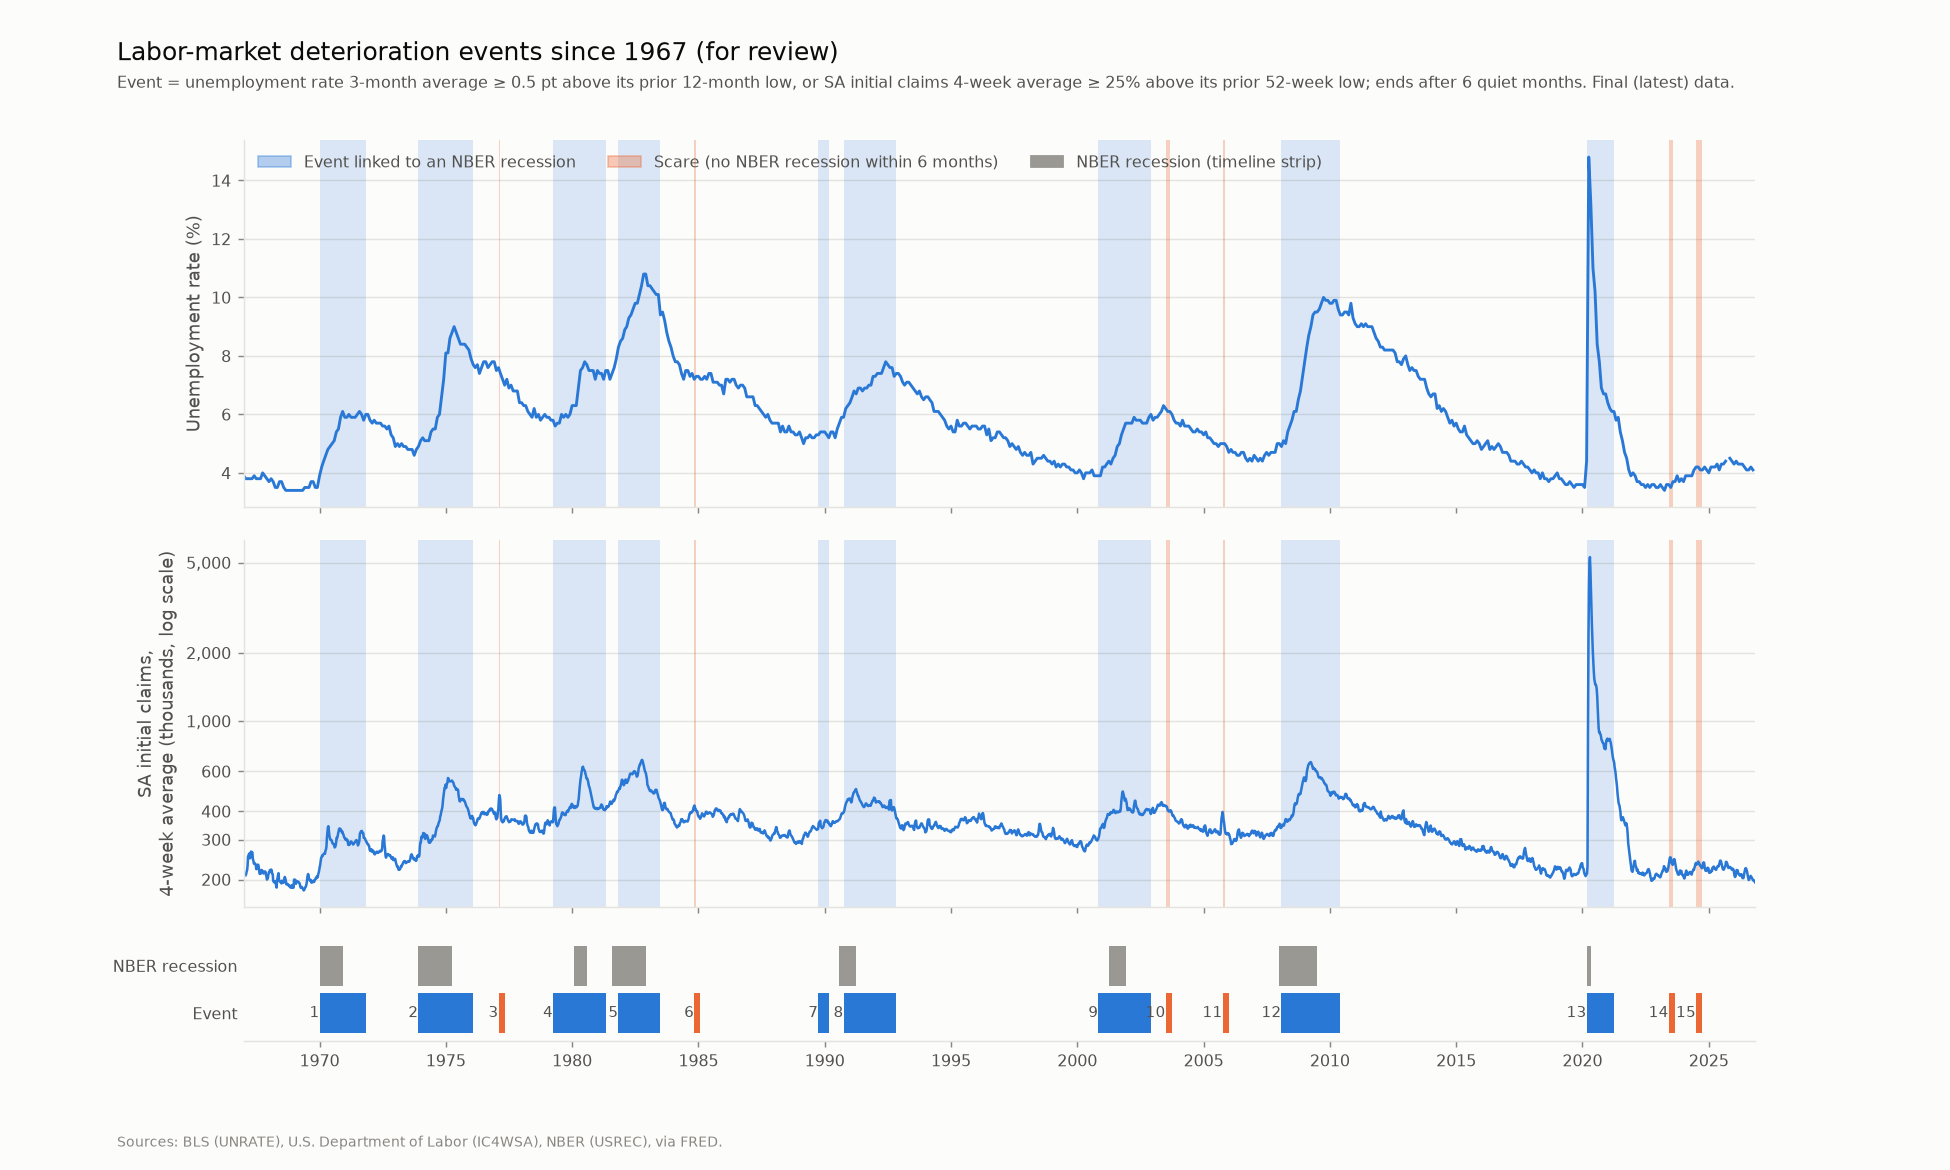
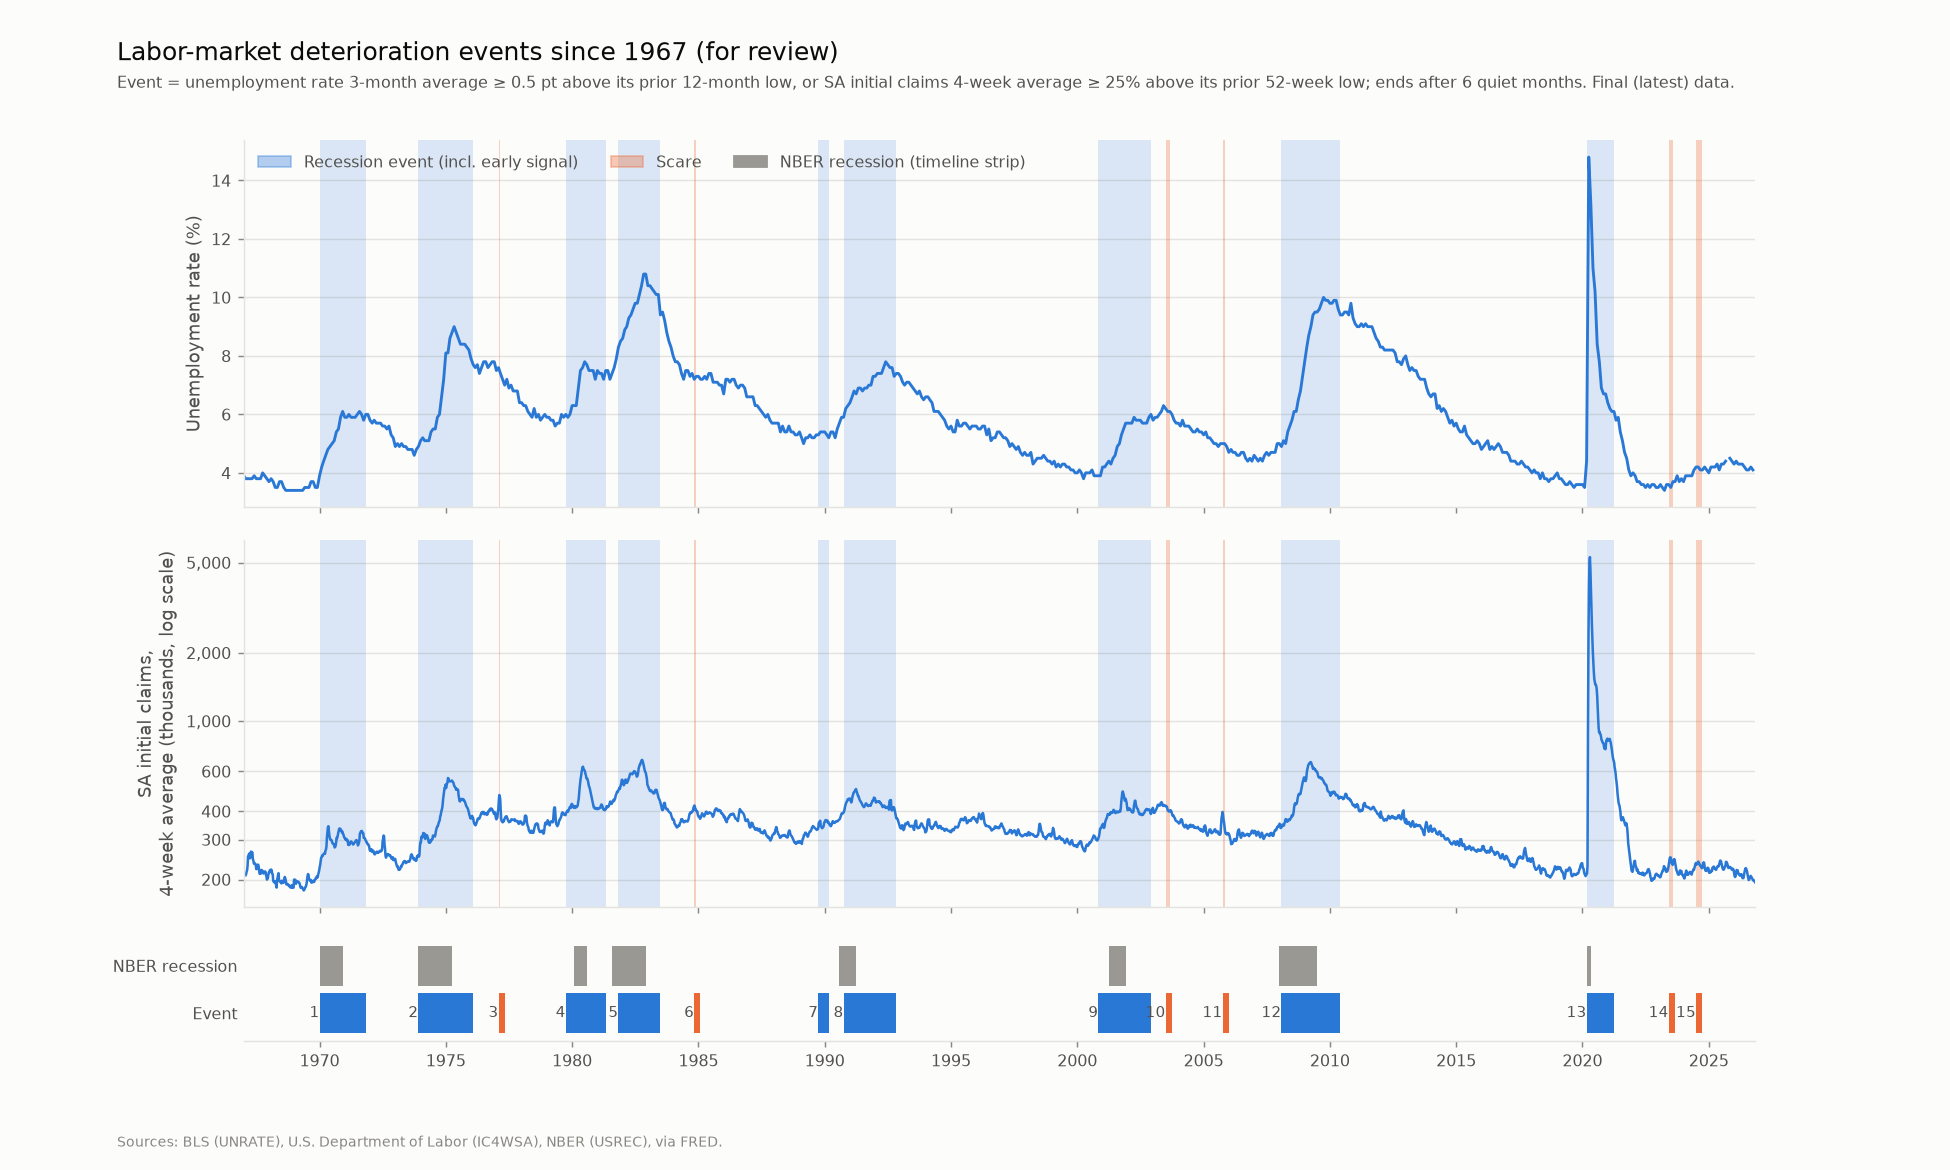
Stage 3a: apply Troy's event rulings (scares count, #4 starts Oct 1979, #7 early signal, #10 scare)

diff --git a/src/model/events.py b/src/model/events.py
@@ -8,6 +8,9 @@ An event STARTS in the first month that either leg is "on":
     value of the prior 52 weeks (not counting the current week). A month's claims leg is on if any
     week ending in that month is on. Needs 52 weeks of history, so it can be tested from early 1968.
 
+Troy's rulings (config/event_notes.csv) can move an event's start (start_override; rule start kept in
+rule_start_month) and classify each event (recession / early signal / scare).
+
 An event ENDS once both legs have been off for QUIET_MONTHS (6) months in a row; its end month is the
 last month a leg was on. A new event cannot start until the previous one has ended, so those quiet
 months are also the minimum gap between events (decision 2026-11-08).
@@ -104,12 +107,29 @@ def months_between(a, b) -> int:
     return (b.year - a.year) * 12 + (b.month - a.month)
 
 
-def describe(events, flags, weekly, recessions) -> pd.DataFrame:
-    """One row per event with the measures Troy asked for."""
-    notes = pd.read_csv(NOTES, dtype=str).set_index("start_month")["note"] if NOTES.exists() else {}
+def read_notes() -> pd.DataFrame:
+    """Troy's rulings per event (config/event_notes.csv), keyed by the start month the rule gives:
+    start_override (a different start month, if any), classification (recession / early signal / scare),
+    and a one-line note."""
+    return pd.read_csv(NOTES, dtype=str, keep_default_na=False).set_index("start_month")
+
+
+def apply_overrides(events: list[tuple], notes: pd.DataFrame) -> list[tuple]:
+    """Turn [(start, end)] into [(rule start, start used, end)], applying any start_override."""
+    out = []
+    for start, end in events:
+        key = f"{start:%Y-%m}"
+        override = notes.start_override.get(key, "") if key in notes.index else ""
+        used = pd.Timestamp(override + "-01") if override else start
+        out.append((start, used, end))
+    return out
+
+
+def describe(events, flags, weekly, recessions, notes) -> pd.DataFrame:
+    """One row per event with the measures Troy asked for. `events` = [(rule start, start used, end)]."""
     last_month = flags.index[-1]
     rows = []
-    for i, (start, end) in enumerate(events):
+    for i, (rule_start, start, end) in enumerate(events):
         stop = end if end is not None else last_month
         window = flags.loc[start:stop]
 
@@ -134,7 +154,7 @@ def describe(events, flags, weekly, recessions) -> pd.DataFrame:
         # next event starts, so the run-up to the next downturn isn't credited to this one.
         search_end = stop + pd.DateOffset(months=PEAK_WINDOW_AFTER_END)
         if i + 1 < len(events):
-            search_end = min(search_end, events[i + 1][0] - pd.DateOffset(months=PEAK_STOP_BEFORE_NEXT))
+            search_end = min(search_end, events[i + 1][1] - pd.DateOffset(months=PEAK_STOP_BEFORE_NEXT))
         search_end = max(search_end, stop)       # but always search the event itself
         ur = flags.unrate
         ur_base = ur.loc[start - pd.DateOffset(months=12):start - pd.DateOffset(months=1)].min()
@@ -155,10 +175,11 @@ def describe(events, flags, weekly, recessions) -> pd.DataFrame:
         else:
             nber, vs_peak = "none", None
 
-        key = f"{start:%Y-%m}"
+        key = f"{rule_start:%Y-%m}"          # notes are keyed by the start the rule gives
         rows.append({
             "event": i + 1,
-            "start_month": key,
+            "start_month": f"{start:%Y-%m}",
+            "rule_start_month": key,       # differs from start_month only where Troy overrode the start
             "end_month": f"{end:%Y-%m}" if end is not None else "ongoing",
             "length_months": months_between(start, stop) + 1,
             "first_leg": first_leg,
@@ -175,9 +196,10 @@ def describe(events, flags, weekly, recessions) -> pd.DataFrame:
             "nber_recession": nber,
             "nber_months_in_event": rec_months,
             "start_vs_nber_peak_months": vs_peak,
-            "scare": not near,            # no NBER recession within 6 months of the event
+            "scare": not near,            # by rule: no NBER recession within 6 months of the event
+            "classification": notes.classification.get(key, "unreviewed") if key in notes.index else "unreviewed",
             "exclude_from_fit": start.year in EXCLUDE_FROM_FIT,
-            "note": notes.get(key, "") if len(notes) else "",
+            "note": notes.note.get(key, "") if key in notes.index else "",
         })
     return pd.DataFrame(rows)
 
@@ -192,11 +214,13 @@ def main() -> None:
     recessions = nber_recessions()
 
     events = find_events(flags.either_on, QUIET_MONTHS)
-    table = describe(events, flags, weekly, recessions)
+    notes = read_notes()
+    events = apply_overrides(events, notes)
+    table = describe(events, flags, weekly, recessions, notes)
 
     # Label each month with its event number (blank outside events).
     flags["event"] = pd.NA
-    for row, (start, end) in zip(table.itertuples(), events):
+    for row, (_, start, end) in zip(table.itertuples(), events):
         flags.loc[start:(end if end is not None else flags.index[-1]), "event"] = row.event
     flags["usrec"] = pd.read_csv(PROCESSED / "USREC.csv", parse_dates=["date"]).set_index("date")["value"]
 

diff --git a/src/model/plot_events.py b/src/model/plot_events.py
@@ -59,9 +59,9 @@ def main() -> None:
     # Event shading on both data panels.
     for ev in events.itertuples():
         s, e = month_span(ev.start_month, ev.end_month if ev.end_month != "ongoing" else last)
-        color = SCARE if ev.scare else EVENT
+        color = SCARE if ev.classification == "scare" else EVENT
         for ax in (ax_ur, ax_ic):
-            ax.axvspan(s, e, color=color, alpha=0.30 if ev.scare else 0.16, lw=0)
+            ax.axvspan(s, e, color=color, alpha=0.30 if ev.classification == "scare" else 0.16, lw=0)
 
     # Data lines.
     ax_ur.plot(flags.index, flags.unrate, color=LINE, lw=1.6)
@@ -78,7 +78,7 @@ def main() -> None:
         ax_tl.axvspan(s, e, ymin=0.55, ymax=0.95, color=NBER, lw=0)
     for ev in events.itertuples():
         s, e = month_span(ev.start_month, ev.end_month if ev.end_month != "ongoing" else last)
-        color = SCARE if ev.scare else EVENT
+        color = SCARE if ev.classification == "scare" else EVENT
         e = max(e, s + pd.Timedelta(days=MIN_STRIP_DAYS))   # keep 1-month events visible in the strip
         ax_tl.axvspan(s, e, ymin=0.08, ymax=0.48, color=color, lw=0)
         ax_tl.text(s, 0.28, f" {ev.event}", va="center", ha="right", fontsize=8.5, color=INK2,
@@ -112,7 +112,7 @@ def main() -> None:
     handles = [plt.Rectangle((0, 0), 1, 1, color=EVENT, alpha=0.35),
                plt.Rectangle((0, 0), 1, 1, color=SCARE, alpha=0.35),
                plt.Rectangle((0, 0), 1, 1, color=NBER)]
-    ax_ur.legend(handles, ["Event linked to an NBER recession", "Scare (no NBER recession within 6 months)",
+    ax_ur.legend(handles, ["Recession event (incl. early signal)", "Scare",
                            "NBER recession (timeline strip)"],
                  loc="upper left", frameon=False, fontsize=9, labelcolor=INK2, ncol=3)
     fig.text(0.06, 0.02, "Sources: BLS (UNRATE), U.S. Department of Labor (IC4WSA), NBER (USREC), via FRED.",

diff --git a/docs/model.md b/docs/model.md
@@ -78,47 +78,50 @@ Measured on **final (latest) data**, monthly, from January 1967.
   within 6 months either side. Otherwise it is a **scare**. "Start vs. NBER peak" is in months: negative means the
   event started before the peak.
 
-## 3. Event list (awaiting Troy's sign-off)
+## 3. Event list (signed off by Troy, 2026-11-08)
 
 Full detail in `data/model/events.csv`. Chart: `reports/events.png` (events shaded, NBER recessions marked).
 
-| # | Start | End | First leg | Other leg | Start vs. NBER peak | UR rise (pt) | Claims rise | NBER recession | Note |
-| --- | --- | --- | --- | --- | --- | --- | --- | --- | --- |
-| 1 | 1970-01 | 1971-10 | claims | UR +2 mo | +1 | 2.7 | +92% | 1969-12 to 1970-11 | GM strike (Sep–Nov 1970) inside the event |
-| 2 | 1973-12 | 1976-01 | claims | UR +7 mo | +1 | 4.4 | +154% | 1973-11 to 1975-03 | Oil embargo |
-| 3 | 1977-02 | 1977-02 | claims | none | – | 0.2 | +36% | none: **scare** | Severe winter, natural-gas shortages closed plants |
-| 4 | 1979-04 | 1981-04 | claims | UR +10 mo | −9 | 2.0 | +97% | 1980-01 to 1980-07 | **Check:** April 1979 is a one-month spike (Teamsters trucking strike, auto layoffs); claims back on from Oct 1979 |
-| 5 | 1981-11 | 1983-06 | both | same month | +4 | 3.6 | +67% | 1981-07 to 1982-11 | Deepest pre-2008 rise |
-| 6 | 1984-11 | 1984-11 | claims | none | – | 0.2 | +25% | none: **scare** | One week at +25.1%; cause not identified |
-| 7 | 1989-10 | 1990-02 | claims | none | −9 | 0.4 | +27% | linked to 1990-07 to 1991-03 | **Check:** early signal or scare? Then 7 quiet months before event 8 |
-| 8 | 1990-10 | 1992-10 | both | same month | +3 | 2.6 | +49% | 1990-07 to 1991-03 | Slow recovery |
-| 9 | 2000-11 | 2002-11 | claims | UR +7 mo | −4 | 2.2 | +84% | 2001-03 to 2001-11 | Claims led the NBER peak by 4 months |
-| 10 | 2003-07 | 2003-08 | unemployment | none | – | 0.5 | +10% | none: **scare** | Late tail of the 2001 "jobless recovery" |
-| 11 | 2005-10 | 2005-10 | claims | none | – | 0.1 | +27% | none: **scare** | Hurricanes Katrina and Rita |
-| 12 | 2008-02 | 2010-05 | unemployment | claims +5 mo | +2 | 5.6 | +118% | 2007-12 to 2009-06 | UR leg first; claims followed Jul 2008 |
-| 13 | 2020-03 | 2021-03 | claims | UR +1 mo | +1 | 11.3 | +2,524% | 2020-02 to 2020-04 | Pandemic. **Excluded from fitting** (decision 4) |
-| 14 | 2023-06 | 2023-07 | claims | none | – | 0.5 | +27% | none: **scare** | Minnesota summer benefits for school workers; Ohio fraud |
-| 15 | 2024-07 | 2024-09 | unemployment | none | – | 0.9 | +20% | none: **scare** | The mid-2024 Sahm-rule trigger |
+| # | Start | End | First leg | Other leg | Start vs. NBER peak | UR rise (pt) | Claims rise | NBER recession | Classification | Note |
+| --- | --- | --- | --- | --- | --- | --- | --- | --- | --- | --- |
+| 1 | 1970-01 | 1971-10 | claims | UR +2 mo | +1 | 2.7 | +92% | 1969-12 to 1970-11 | recession | GM strike (Sep–Nov 1970) inside the event |
+| 2 | 1973-12 | 1976-01 | claims | UR +7 mo | +1 | 4.4 | +154% | 1973-11 to 1975-03 | recession | Oil embargo |
+| 3 | 1977-02 | 1977-02 | claims | none | – | 0.2 | +36% | none | **scare** | Severe winter, natural-gas shortages closed plants |
+| 4 | 1979-10 | 1981-04 | claims | UR +4 mo | −3 | 2.2 | +97% | 1980-01 to 1980-07 | recession | **Start overridden** from the rule's April 1979 (a one-month spike: Teamsters trucking strike, auto layoffs) |
+| 5 | 1981-11 | 1983-06 | both | same month | +4 | 3.6 | +67% | 1981-07 to 1982-11 | recession | Deepest pre-2008 rise |
+| 6 | 1984-11 | 1984-11 | claims | none | – | 0.2 | +25% | none | **scare** | One week at +25.1%; cause not identified |
+| 7 | 1989-10 | 1990-02 | claims | none | −9 | 0.4 | +27% | 1990-07 to 1991-03 | **early signal** | Of the 1990–91 recession; then 7 quiet months before event 8 |
+| 8 | 1990-10 | 1992-10 | both | same month | +3 | 2.6 | +49% | 1990-07 to 1991-03 | recession | Slow recovery |
+| 9 | 2000-11 | 2002-11 | claims | UR +7 mo | −4 | 2.2 | +84% | 2001-03 to 2001-11 | recession | Claims led the NBER peak by 4 months |
+| 10 | 2003-07 | 2003-08 | unemployment | none | – | 0.5 | +10% | none | **scare** | Late tail of the 2001 "jobless recovery" |
+| 11 | 2005-10 | 2005-10 | claims | none | – | 0.1 | +27% | none | **scare** | Hurricanes Katrina and Rita |
+| 12 | 2008-02 | 2010-05 | unemployment | claims +5 mo | +2 | 5.6 | +118% | 2007-12 to 2009-06 | recession | UR leg first; claims followed Jul 2008 |
+| 13 | 2020-03 | 2021-03 | claims | UR +1 mo | +1 | 11.3 | +2,524% | 2020-02 to 2020-04 | recession (pandemic) | Pandemic. **Excluded from fitting** (decision 4) |
+| 14 | 2023-06 | 2023-07 | claims | none | – | 0.5 | +27% | none | **scare** | Minnesota summer benefits for school workers; Ohio fraud |
+| 15 | 2024-07 | 2024-09 | unemployment | none | – | 0.9 | +20% | none | **scare** | The mid-2024 Sahm-rule trigger |
 
 "UR rise" is the peak minus the prior 12-month low. For #15 the peak is 4.4% in September 2025, inside the 12-month
 search window after the event.
 
-**What it says.** Every NBER recession since 1969 has an event. Starts range from 9 months before the NBER
-peak to 4 months after (median: 1 month after). NBER announces its dates many months later, so the event still
+**What it says.** Every NBER recession since 1969 has an event. Starts range from 4 months before the NBER
+peak to 4 months after (median: 1 month after); the early signal (#7) came 9 months before the 1990 peak. NBER announces its dates many months later, so the event still
 beats the official call. The claims leg came first in 5 of the 8 recessions (1970, 1973, 1979, 2000, 2020). The
 unemployment leg came first in 2008, and both legs came together in 1981 and 1990. There are **6 scares** (#3, 6, 10, 11, 14, 15): 6 false starts against 8 recession events
 in 57 years. Four of the scares are single-shock claims spikes (weather, a hurricane, a law change and fraud,
 and one unexplained week).
 
-### Decisions for Troy
+### Troy's rulings (2026-11-08)
 
-1. **Do the scares count as events** for fitting the score? Option A: yes, all of them (the score then learns
-   that some spikes fade). Option B: drop the identifiable one-off shocks (#3 winter, #11 hurricanes, #14
-   Minnesota / Ohio) and keep the rest. Option C: count only recession-linked events.
-2. **Event #4: start in April 1979 (as coded) or October 1979?** April 1979 is a strike-driven spike that faded.
-   The 6-month quiet rule merges it with the real onset only because the gap was 5 months, not 6.
-3. **Event #7 (Oct 1989 – Feb 1990):** an early signal of the 1990–91 recession, or a scare?
-4. **#10 (mid-2003):** a scare, or part of the 2001 downturn?
+Recorded in `config/event_notes.csv` (columns start_override and classification), applied by `events.py`.
+
+1. **Scares count as events** for fitting the score (option A): all 6 stay in, so the score learns that some
+   spikes fade. Only 2020 is excluded from fitting (decision 4).
+2. **Event #4 starts in October 1979,** not at the rule's April 1979 strike spike. `events.csv` keeps the
+   rule's start in `rule_start_month`; this is the only override.
+3. **Event #7 (Oct 1989 – Feb 1990) is an early signal** of the 1990–91 recession, not a scare.
+4. **Event #10 (mid-2003) is a scare.**
+
+Result: 15 events, of which 8 are recessions (2020 is excluded from fitting), 1 is an early signal and 6 are scares.
 
 ### Sensitivity to the quiet period
 

diff --git a/CLAUDE.md b/CLAUDE.md
@@ -166,12 +166,14 @@ uncertainty) but NEW to Python, Git, GitHub and VS Code. So:
   website unchanged): claims table from 1967 (rates from 1971; DOL has no covered employment before 1971), ALFRED
   vintages for 7 monthly series (TEMPHELPS / JOLTS only from 2010-11, PERMIT from 1999), `as_known_on` (matches
   FRED SAHMREALTIME in 97.7% of months), event list: 15 events since 1967 (8 recession-linked, 6 scares, 2020
-  excluded from fitting), docs/model.md, reports/events.png. Waiting for Troy's sign-off on the event list.
+  excluded from fitting), docs/model.md, reports/events.png. Troy's rulings applied the same day (scares count;
+  #4 starts Oct 1979; #7 early signal; #10 scare; in config/event_notes.csv). Troy is reviewing the list in his
+  Claude project before stage 3b.
 
 ## Next steps, in order
 Setup (steps 1-4), Phase 1, Phase 2 and the Phase 2 review fixes are done and live.
-1. Phase 3 stage 3a sign-off: Troy decides the four questions in docs/model.md section 3 (do scares count; 1979
-   start; event #7; event #10), then merge `phase3a` into main and push when he says "push".
+1. Phase 3 stage 3a: rulings applied; Troy is reviewing the event list in his Claude project. Do not start 3b
+   until he says so. Merge `phase3a` into main and push only when he says "push".
 2. Stage 3b (triggers): compute the Layer 1 rules historically with `as_known_on`, lead-time and false-alarm table;
    measure the claims revision effect with FRED's 2009+ claims vintages. Plan with Troy first.
 3. Stages 3c-3e per docs/phase3_plan.md.

diff --git a/docs/decisions.md b/docs/decisions.md
@@ -94,3 +94,4 @@ Record every change to thresholds, model weights, data sources or hosting, with 
 | 2026-11-08 | Event ends once both legs have been off 6 months in a row (end = last month on); a new event can start only after the previous one ended (so the minimum gap is the 6 quiet months) | One parameter; 3 months splits the 1979-80 onset at a strike spike, 12 months merges 1981-82 and 1990-91 into earlier events. Result: 15 events since 1967, 8 recession-linked, 6 scares, 2020 excluded from fitting | Troy |
 | 2026-11-08 | Peak rise per event searched from the start to 12 months after the end, stopping 6 months before the next event's start; "scare" = no NBER recession month within the event or 6 months either side | Keeps the run-up to the next downturn out of an event's peak (1979-81 would otherwise take Oct 1981) | Claude |
 | 2026-11-08 | Review chart reports/events.png drawn with matplotlib, added to requirements-dev.txt only | Review artifact, not part of the site; the cloud workflow is unchanged | Claude |
+| 2026-11-08 | Event list signed off: scares count as events for fitting (all 6); event #4 start moved from Apr 1979 (strike spike) to Oct 1979, the only override, rule start kept in events.csv; #7 (Oct 1989 - Feb 1990) = early signal of 1990-91; #10 (mid-2003) = scare. Rulings live in config/event_notes.csv (start_override, classification) | Score should learn that some spikes fade; the April 1979 spike faded and joined the 1980 onset only because the gap was 5 quiet months | Troy |
